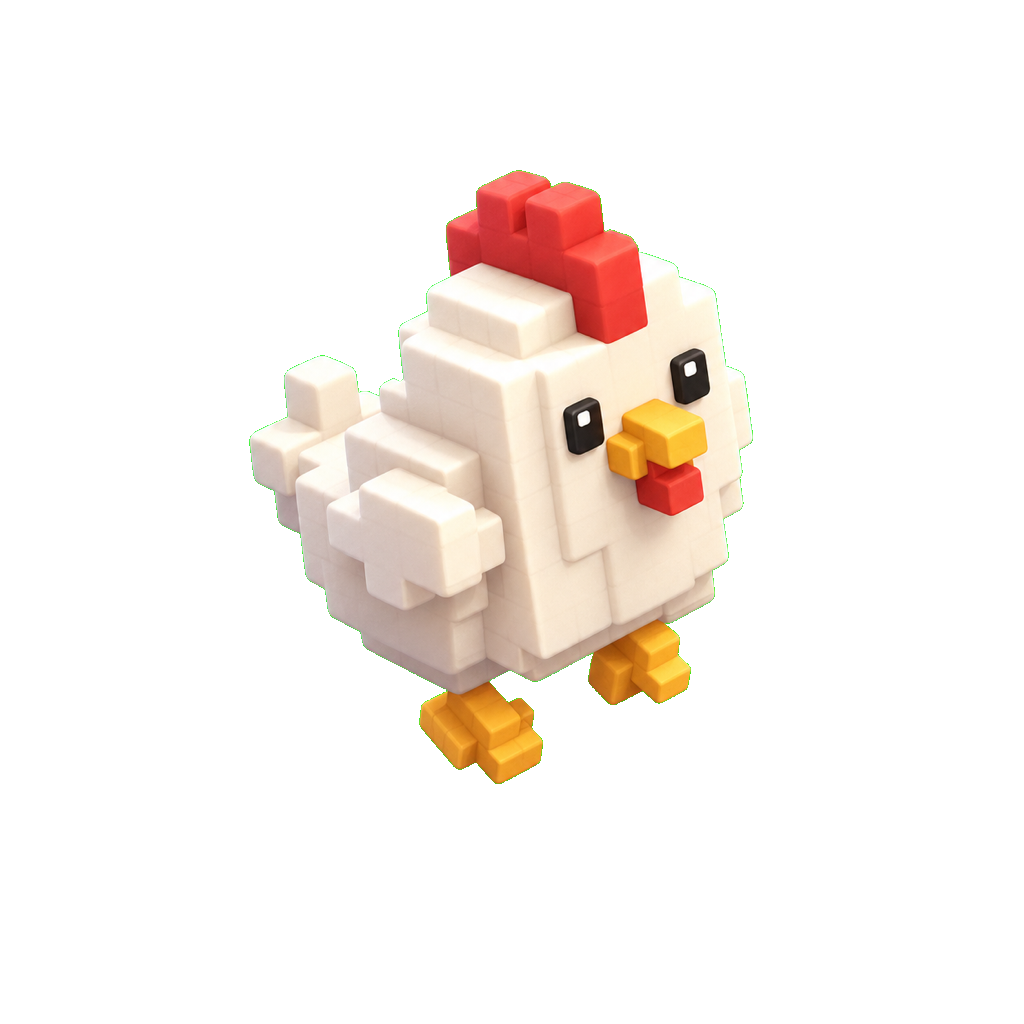
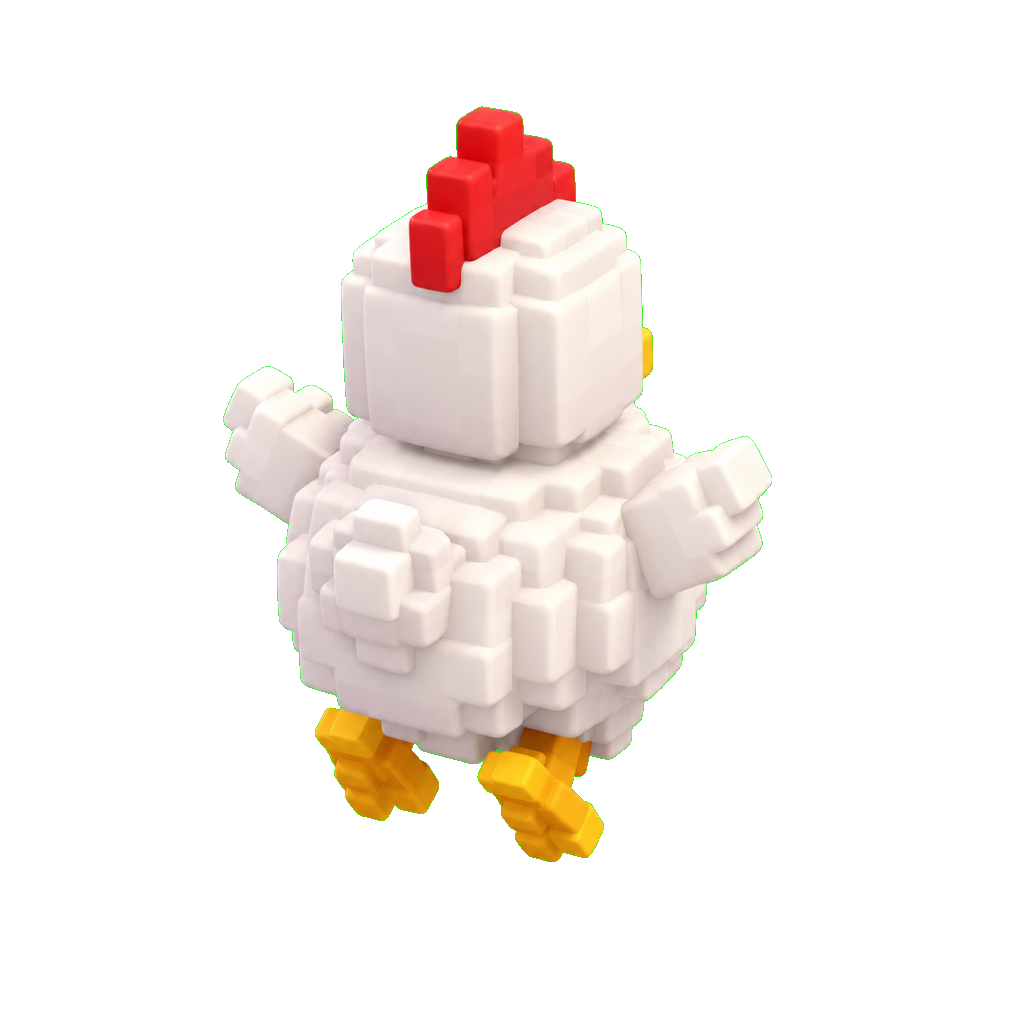
fix: 닭 sprite 뒷모습으로 (1시 방향 향함) + 홈/전체화면 버튼 + 뗏목 gap 5 (강 빠짐 명확)

Changed region(s): [[0.2188, 0.0938, 0.75, 0.8438]]

diff --git a/main.js b/main.js
@@ -315,13 +315,16 @@ function spawnLane(z, forceType) {
   if (type === 'river') {
     const dir = state.rng() < 0.5 ? 1 : -1;
     const speed = (0.85 + state.rng() * 0.5) * dir;
-    const logGap = state.variant === 'boss' ? 4 : 3;
-    const count = Math.ceil(LANE_W / logGap) + 1;
+    // 뗏목(raft): 더 두껍고 넓게. 강 칸에 빈 공간 명확히 — 충돌 미스 시 즉시 익사
+    const raftW = 2.8;
+    const raftGap = state.variant === 'boss' ? 6.0 : 5.0;  // 뗏목 사이 빈 공간 충분히
+    const count = Math.ceil(LANE_W / raftGap) + 1;
+    const offset0 = state.rng() * raftGap;
     for (let i = 0; i < count; i++) {
-      const log = makeSprite('obj_log', 2.5, 0.85);
-      log.position.set(-CELL_HALF + i * logGap + state.rng() * 0.6, 0.05, z);
+      const log = makeSprite('obj_log', raftW, 1.05);
+      log.position.set(-CELL_HALF - 2 + offset0 + i * raftGap, 0.15, z);
       world.add(log);
-      lane.objects.push({ kind: 'log', mesh: log, speed, w: 2.5 });
+      lane.objects.push({ kind: 'log', mesh: log, speed, w: raftW });
     }
   }
 
@@ -689,10 +692,10 @@ function tick() {
         }
         updatePlayerSprite(p);
       } else {
-        // 통나무 위에서 같이 이동
+        // 뗏목 위에서 같이 이동
         if (p.onLog) {
           p.x += p.onLog.speed * dt;
-          if (Math.abs(p.x) > 6.5) endPlayer(p, 'river_fall');
+          if (Math.abs(p.x) > PLAYABLE_HALF + 0.5) endPlayer(p, 'river_fall');
         }
         updatePlayerSprite(p);
 
@@ -915,6 +918,20 @@ document.getElementById('btn-start').addEventListener('click', () => {
 });
 document.getElementById('btn-restart').addEventListener('click', () => {
   location.reload();
+});
+
+// 시스템 버튼: 홈 + 전체화면
+document.getElementById('btn-home').addEventListener('click', () => {
+  if (confirm('첫 화면(인원 선택)으로 돌아갈까요? 현재 진행 상황은 사라집니다.')) {
+    location.reload();
+  }
+});
+document.getElementById('btn-fullscreen').addEventListener('click', () => {
+  if (!document.fullscreenElement) {
+    document.documentElement.requestFullscreen?.().catch(() => {});
+  } else {
+    document.exitFullscreen?.();
+  }
 });
 
 function startGame() {

diff --git a/index.html b/index.html
@@ -140,6 +140,24 @@
       .phud { min-height: 64px; padding: 6px 10px; }
       .phud .score, .phud .coin { font-size: 16px; }
     }
+
+    /* 시스템 버튼: 홈 + 전체화면 */
+    #sys-buttons {
+      position: absolute; top: 16px; right: 16px;
+      display: flex; gap: 8px; z-index: 50;
+    }
+    .sysbtn {
+      width: 44px; height: 44px; border-radius: 12px;
+      background: rgba(20,30,45,0.78); border: 2px solid rgba(255,255,255,0.4);
+      color: #fff; font-size: 22px; cursor: pointer;
+      display: flex; align-items: center; justify-content: center;
+      backdrop-filter: blur(8px);
+      transition: transform 0.08s, background 0.15s;
+      box-shadow: 0 4px 12px rgba(0,0,0,0.4);
+      -webkit-tap-highlight-color: transparent;
+    }
+    .sysbtn:hover { background: rgba(255,210,58,0.4); transform: scale(1.05); }
+    .sysbtn:active { transform: scale(0.92); }
     @media (max-width: 480px) {
       .p-cards { grid-template-columns: repeat(2, 1fr); }
       #intro .title { font-size: 40px; }
@@ -155,6 +173,12 @@
 
     <div id="huds"></div>
     <div id="pads"></div>
+
+    <!-- 우상단 시스템 버튼: 홈 + 전체화면 -->
+    <div id="sys-buttons">
+      <button id="btn-fullscreen" class="sysbtn" aria-label="전체화면">⛶</button>
+      <button id="btn-home" class="sysbtn" aria-label="홈으로">🏠</button>
+    </div>
 
     <div id="quiz-modal">
       <div class="label">📚 분수 문제</div>
